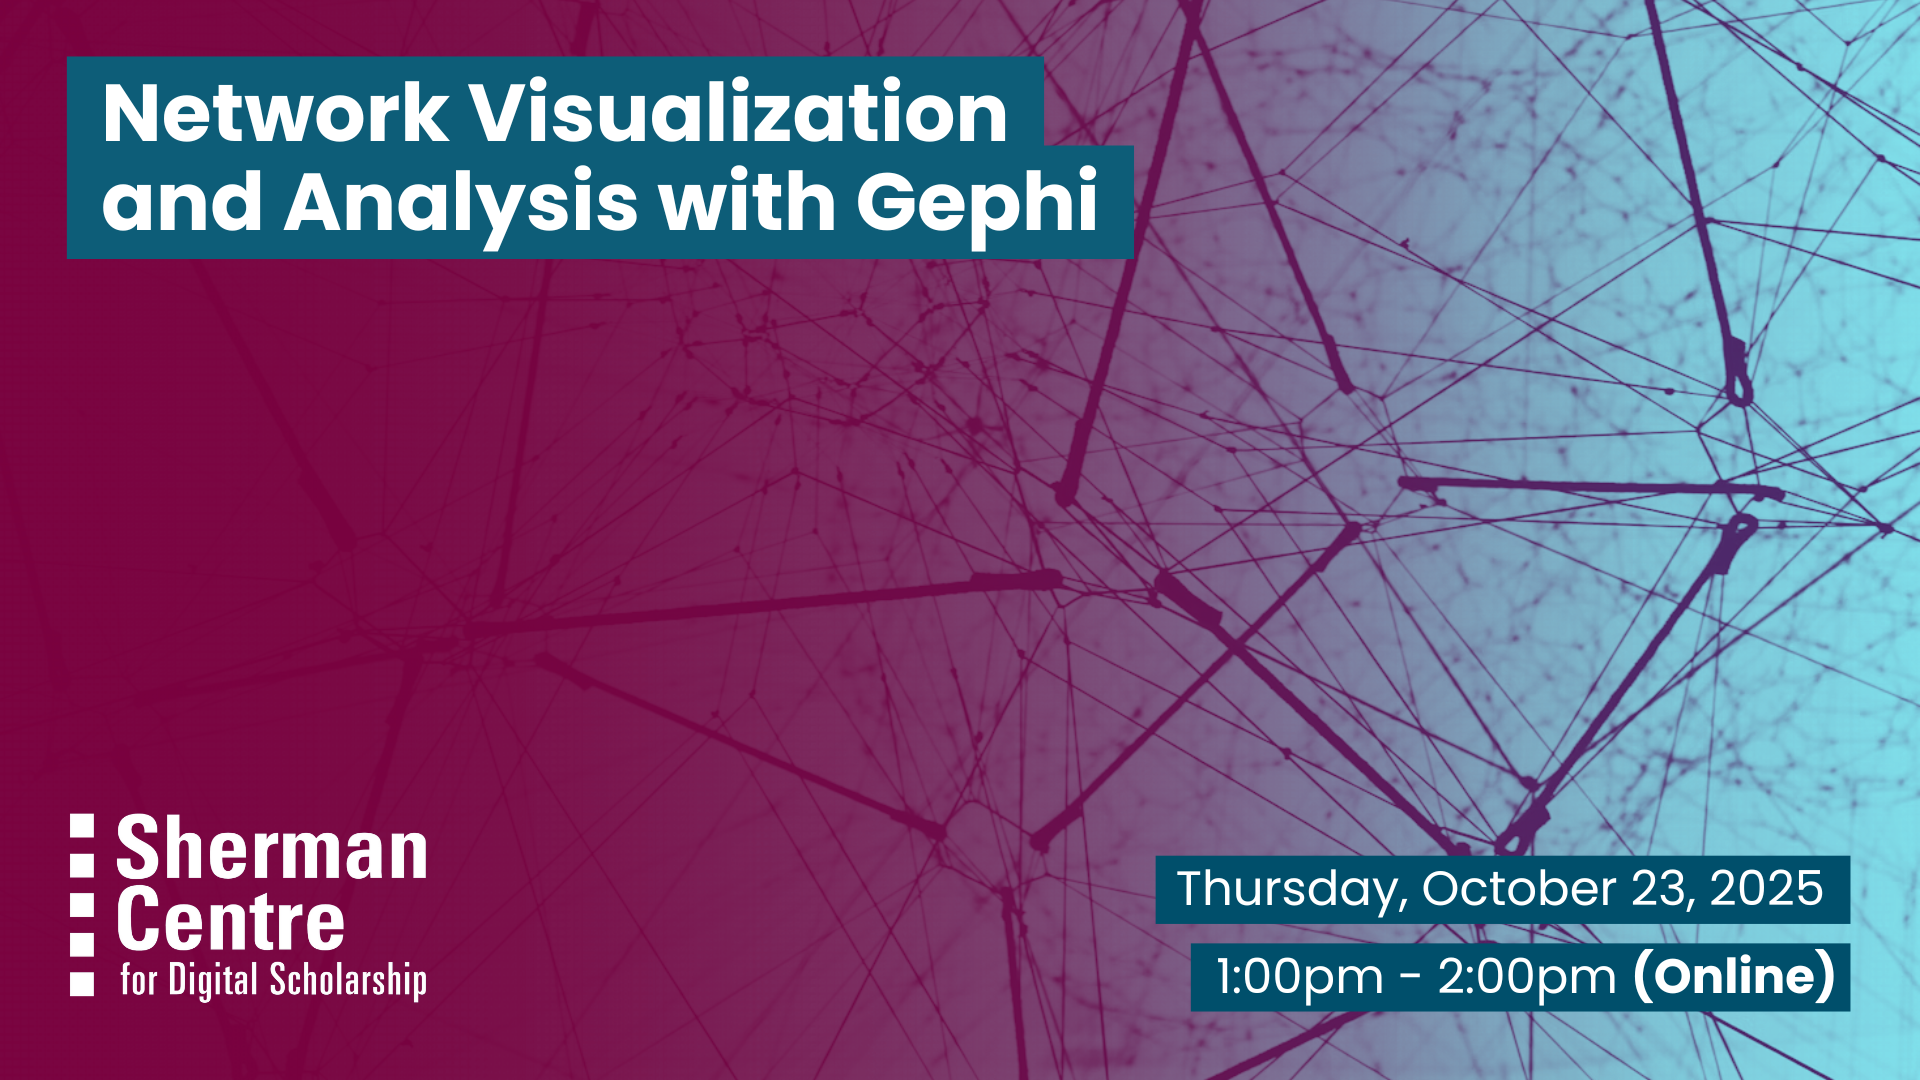
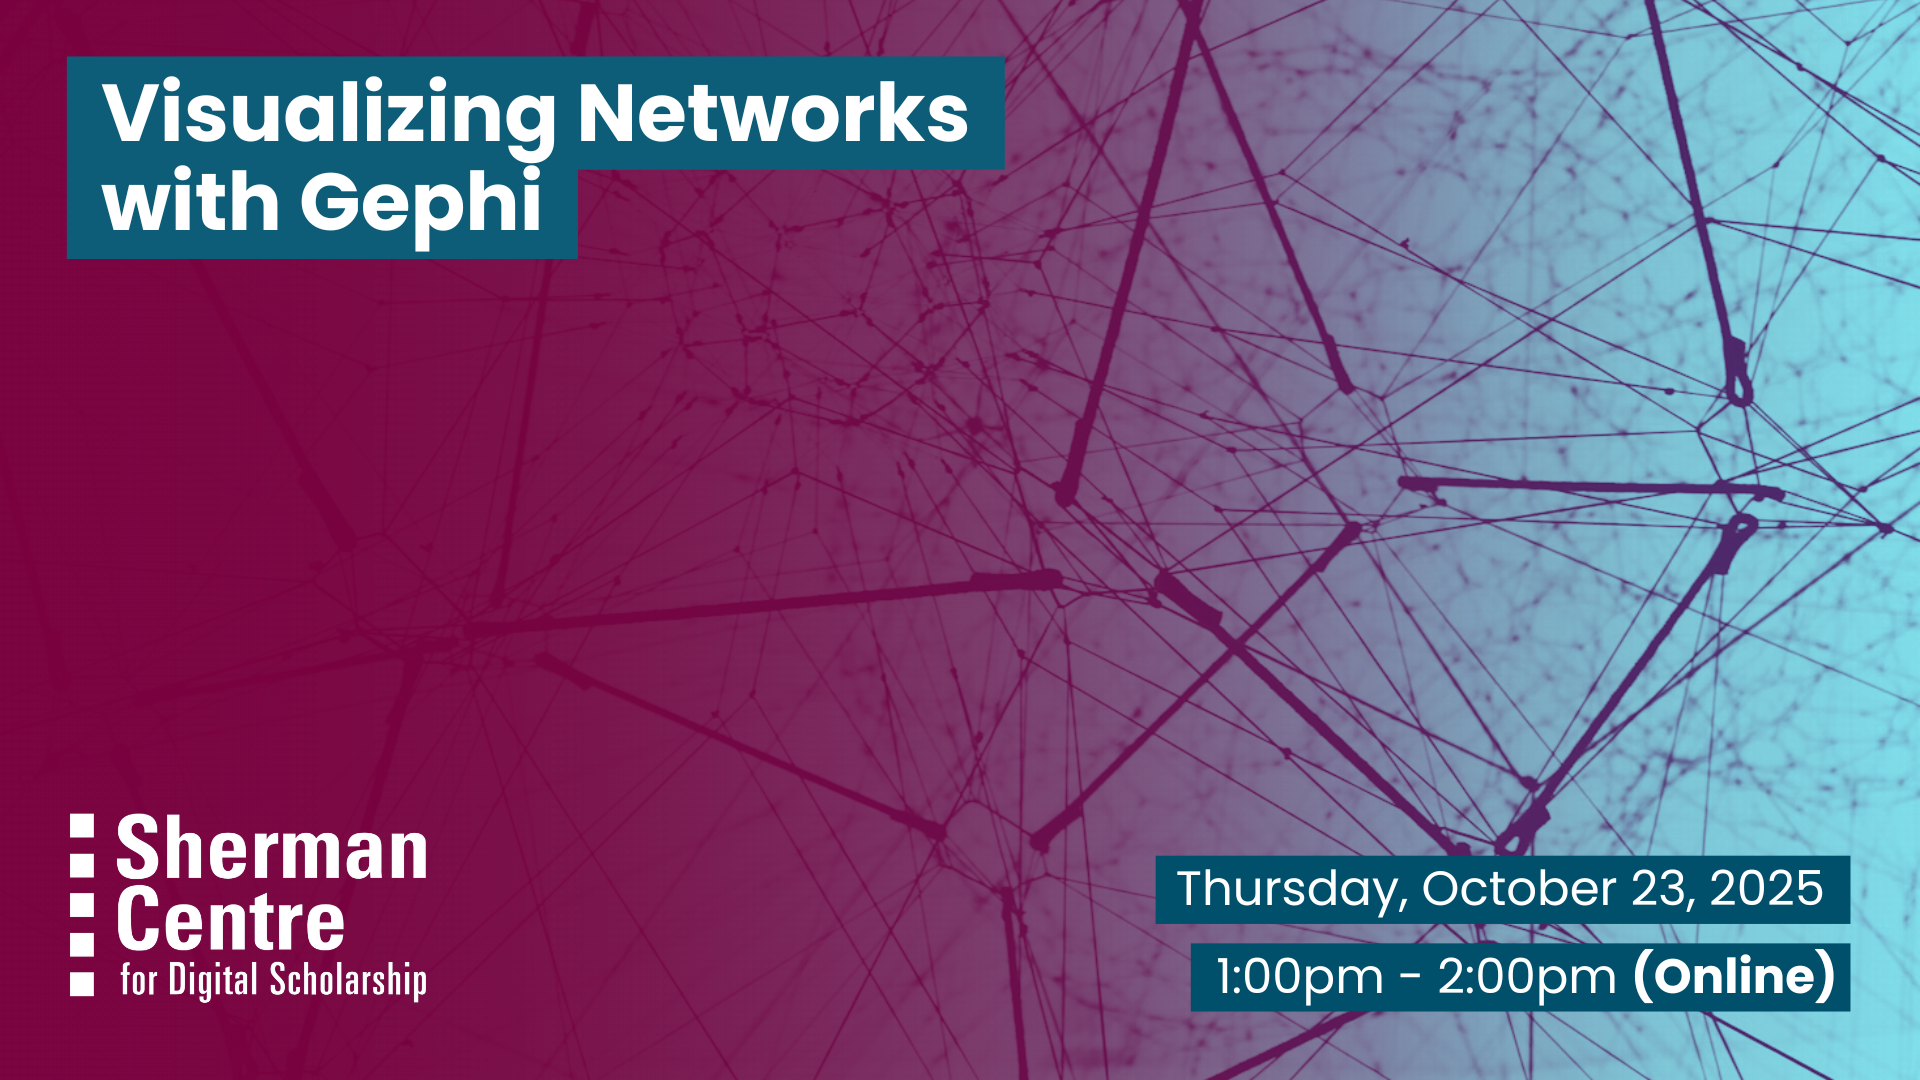
gephi page changes

Changed region(s): [[0.0312, 0.0306, 0.5938, 0.2444]]

diff --git a/gephi.md b/gephi.md
@@ -1,12 +1,12 @@
 ---
 layout: default
-title: Network Visualization and Analysis with Gephi
+title: Visualizing Networks with Gephi
 nav_order: 20251023
 ---
 
 <img src="assets/img/gephi.png" alt="Workshop Title Slide" width="100%">
 
-# Network Visualization and Analysis with Gephi
+# Visualizing Networks with Gephi
 
 Want to explore how people, ideas, or objects are connected? In this virtual workshop, you will learn how to use Gephi, a free and open-source tool designed for network visualization and analysis. We will focus on how graph data can help express relationships between entities, perfect for exploring everything from social networks to historical connections. 
 
